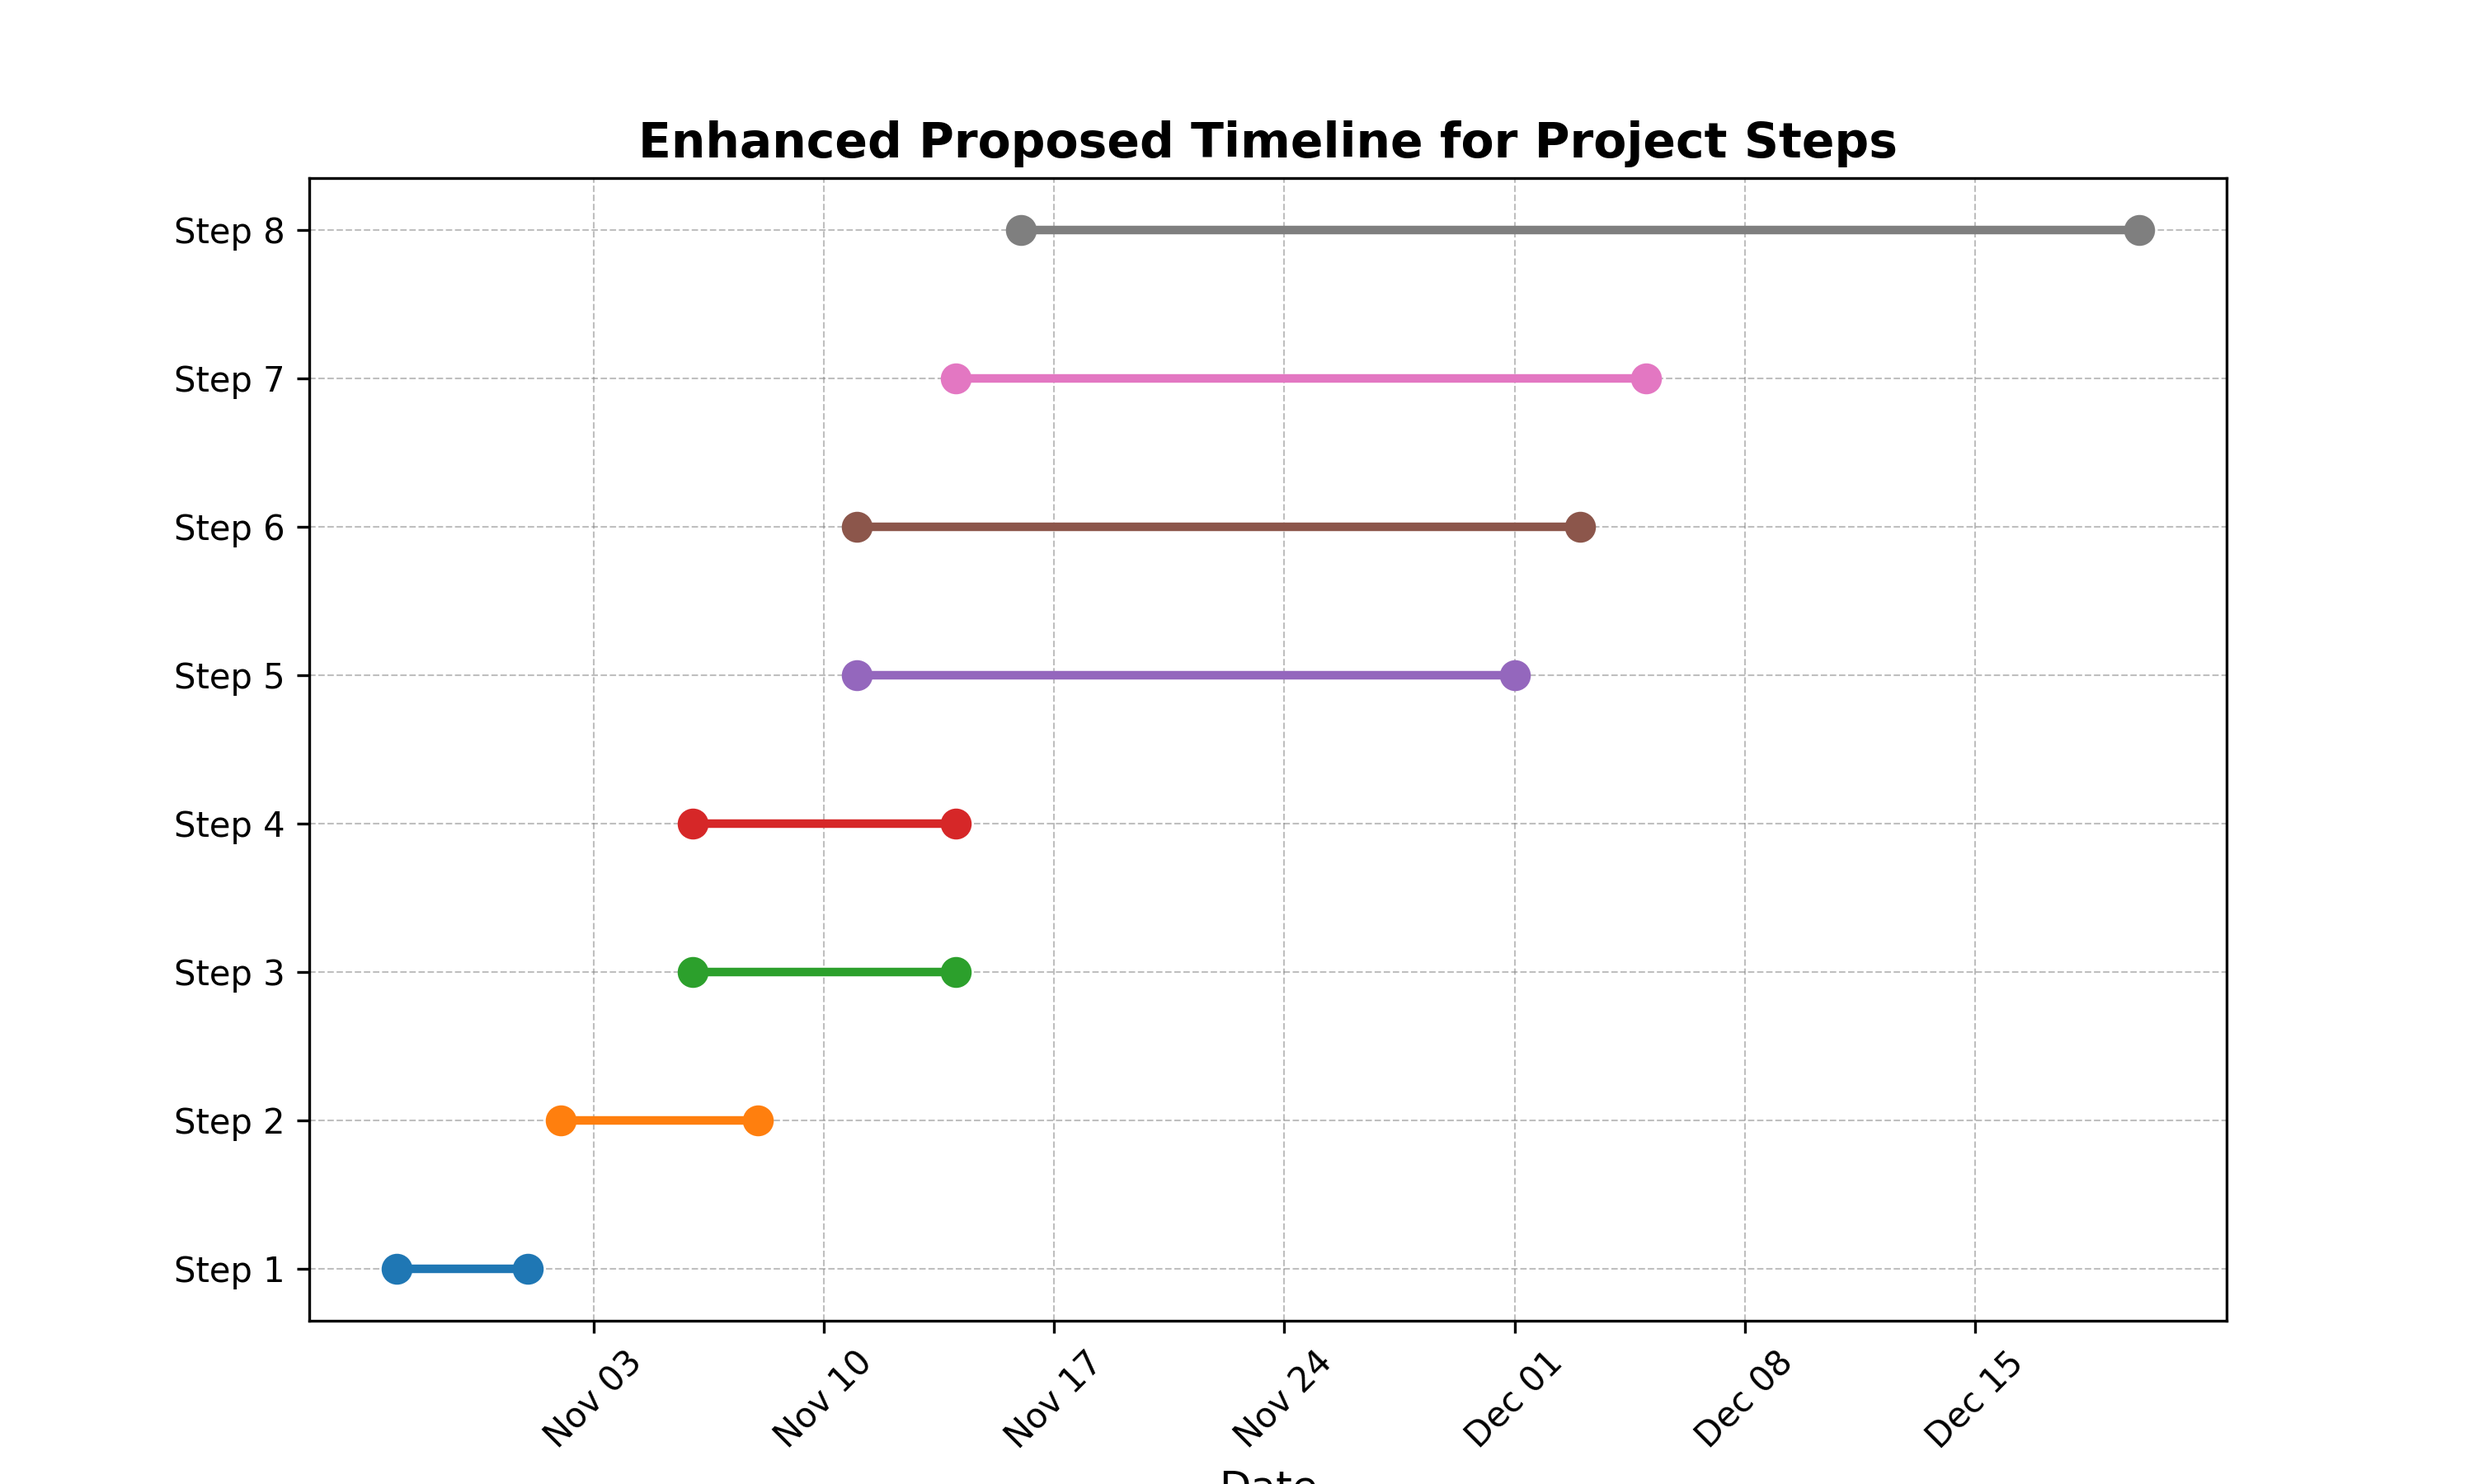
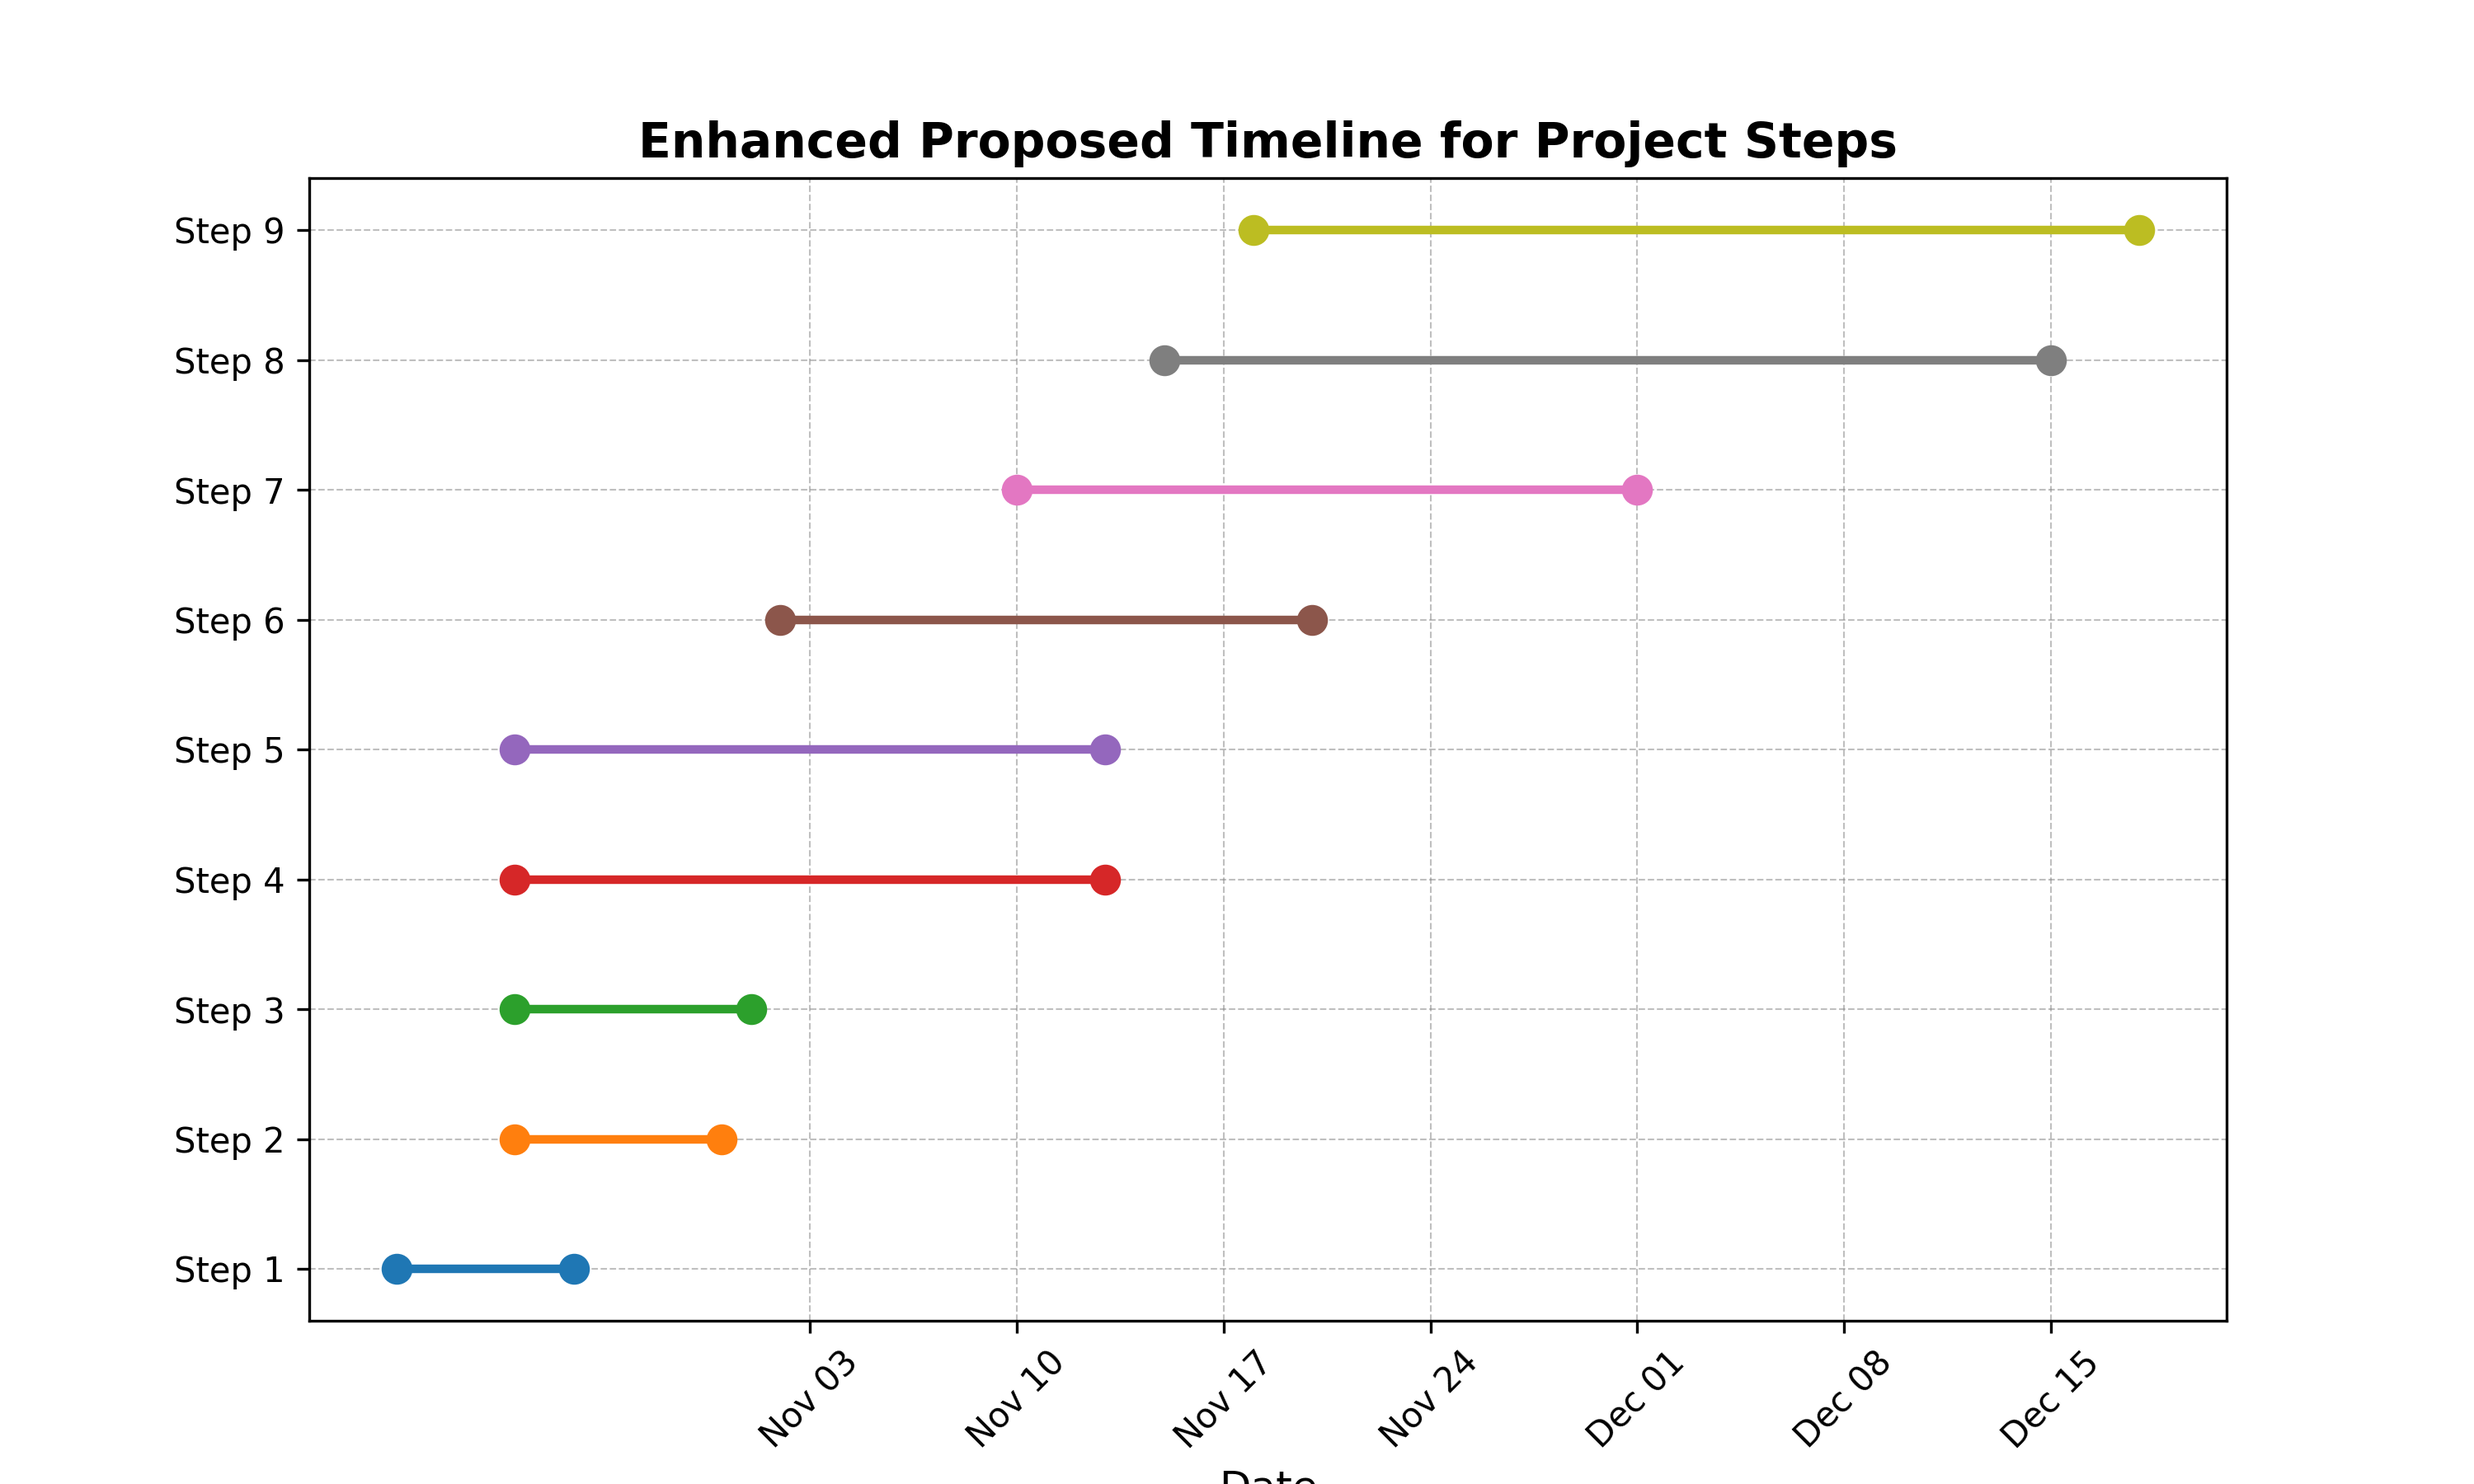
README

diff --git a/README.md b/README.md
@@ -56,35 +56,55 @@ https://www.kaggle.com/datasets/asaniczka/tmdb-movies-dataset-2023-930k-movies?r
 
 ## **Proposed Timeline**
 
-1. **Step 1 (28.10.2024 - 01.11.2024)**: Integrate CMU and TMDB datasets, standardize formats, and address missing values.
-2. **Step 2 (02.11.2024 - 08.11.2024)**: Conduct EDA, create visualizations, and identify trends.
-3. **Step 3 (11.11.2024 - 14.11.2024)**: Analyze seasonal genre trends using statistical methods.
-4. **Step 4 (11.11.2024 - 14.11.2024)**: Perform regression analysis on historical events' impact.
-5. **Step 5 (11.11.2024 - 01.12.2024)**: Apply time series analysis to revenue patterns.
-6. **Step 6 (11.11.2024 - 03.12.2024)**: Conduct clustering for genre and regional preferences.
-7. **Step 7 (14.11.2024 - 05.12.2024)**: Perform sentiment analysis on plot summaries.
-8. **Step 8 (16.11.2024 - 20.12.2024)**: Finalize visualizations, compile findings, and complete the report.
+1. **Step 1 (20.10.2024 - 26.10.2024)**:  
+   - Dataset Preparation: Integrate CMU and TMDB datasets, standardize formats, and address missing values.
+
+2. **Step 2 (24.10.2024 - 31.10.2024)**:  
+   - Data Exploration: Conduct exploratory data analysis (EDA), create initial visualizations, and identify trends.
+
+3. **Step 3 (24.10.2024 - 01.11.2024)**:  
+   - Seasonal Trends Analysis: Analyze genre popularity by season using statistical methods.
+
+4. **Step 4 (24.10.2024 - 13.11.2024)**:  
+   - Historical Impact Analysis: Explore genre shifts due to historical events and perform regression analysis to assess impact.
+
+5. **Step 5 (24.10.2024 - 13.11.2024)**:  
+   - Revenue Analysis: Apply time series analysis to examine revenue patterns over time and across seasons.
+
+6. **Step 6 (02.11.2024 - 20.11.2024)**:  
+   - Clustering Analysis: Conduct clustering for genre and regional preferences to identify patterns in audience demographics.
+
+7. **Step 7 (10.11.2024 - 01.12.2024)**:  
+   - Sentiment Analysis: Perform sentiment analysis on plot summaries to assess emotional tone during historical events.
+
+8. **Step 8 (15.11.2024 - 15.12.2024)**:  
+   - GitHub Pages Setup: Develop a GitHub Pages site for the project to display findings and visualizations interactively.
+
+9. **Step 9 (15.11.2024- 18.12.2024)**:  
+   - Final Report and Submission: Compile findings into a comprehensive report and finalize all project documentation for submission.complete the report.
 
 ![Proposed Timeline](src/media/timeline_chart.png)
 
 ## **Organization Within the Team**
 
-- **Dataset Preparation**: Milica, Marija & Eugenio 
-   - Integrate datasets and address missing values.
-- **Data Exploration**: Marija, Andrea & Daniela 
-   - Conduct EDA and create initial visualizations to identify trends.
-- **Seasonal Trends Analysis**: Milica & Eugenio 
-   - Analyze genre popularity by season, using statistical methods.
-- **Historical Impact Analysis**: Daniela & Andrea 
-   - Explore genre shifts due to historical events and perform regression analysis.
-- **Revenue Analysis**: Marija & Milica 
-   - Apply time series analysis to examine revenue patterns over time.
-- **Clustering Analysis**: Eugenio & Andrea 
-   - Conduct clustering analysis for genre and regional preferences.
-- **Sentiment Analysis**: Daniela, Eugenio & Marija 
-   - Perform sentiment analysis on plot summaries to assess emotional tone.
-- **Final Report and Visualization**: Milica, Marija & Andrea
-    - Compile the final report and create interactive visualizations to communicate findings.
+
+- **Step 1 (20.11.2024 - 22.11.2024)**:  Milica, Marija & Eugenio
+
+- **Step 2 (23.11.2024 - 26.11.2024)**: Marija, Andrea & Daniela
+
+- **Step 3 (27.11.2024 - 29.11.2024)**:  Milica & Eugenio
+
+- **Step 4 (30.11.2024 - 02.12.2024)**:  Daniela & Andrea
+
+- **Step 5 (03.12.2024 - 06.12.2024)**: Marija & Milica
+
+- **Step 6 (07.12.2024 - 09.12.2024)**:Eugenio & Andrea
+
+- **Step 7 (10.12.2024 - 12.12.2024)**: Daniela, Eugenio & Marija
+
+- **Step 8 (13.12.2024 - 15.12.2024)**:  Milica & Andrea
+
+- **Step 9 (16.12.2024)**: Marija, Andrea & Daniela
 
 ## **Questions for TAs**  
 - Do you have recommendations on tools for visualizing seasonal and historical trends effectively?  
